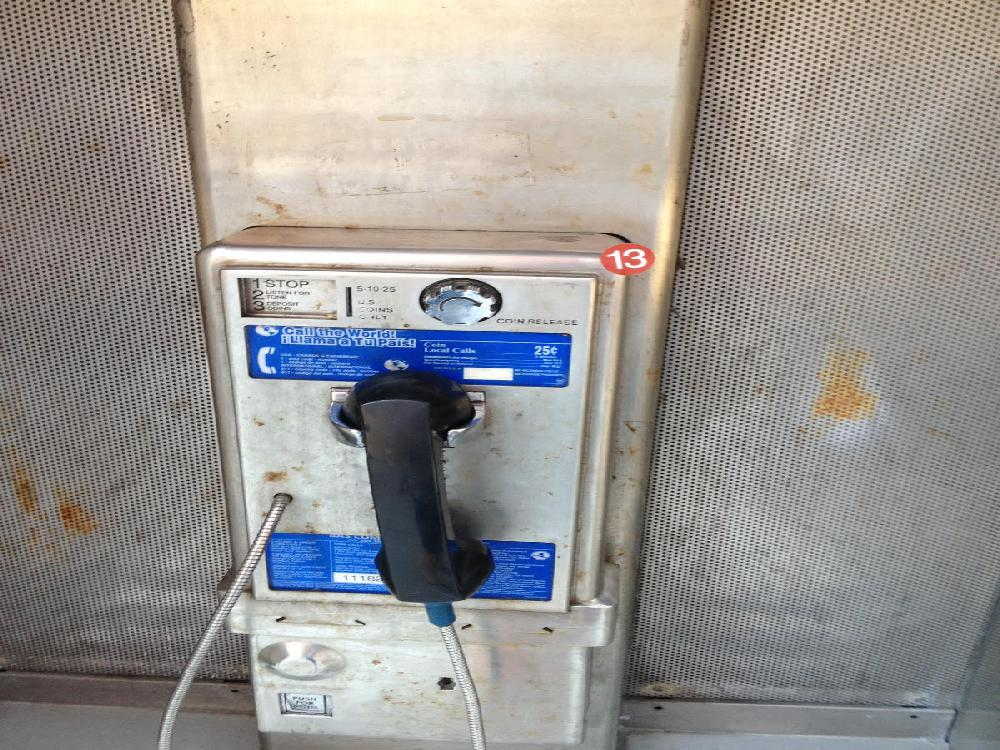
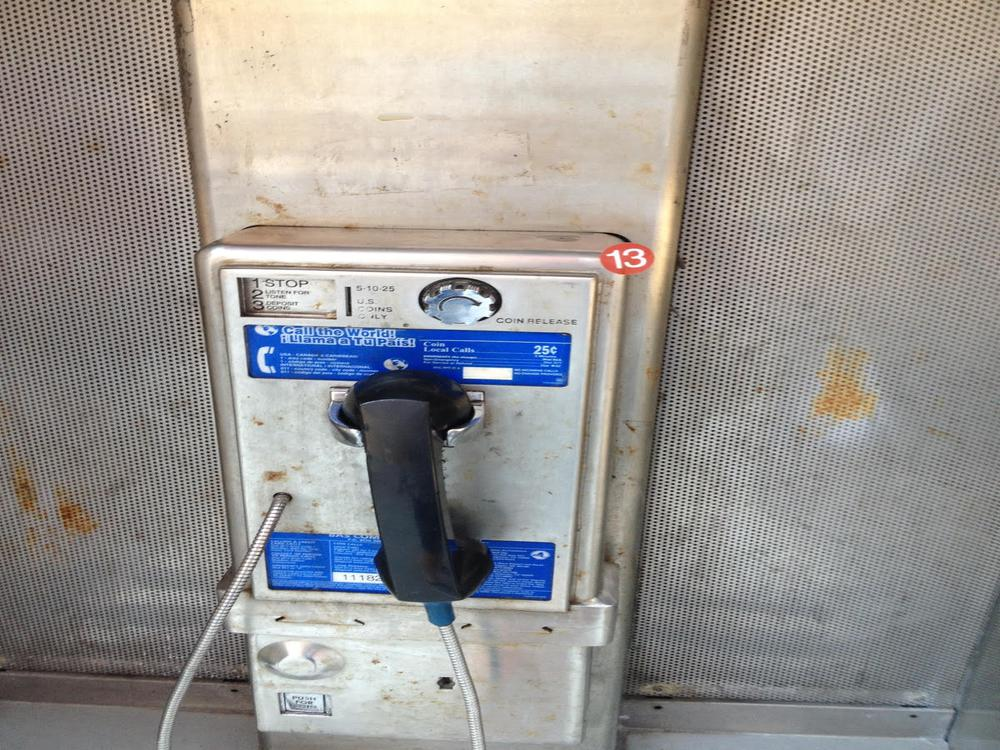
better image resizing

diff --git a/index.html b/index.html
@@ -179,6 +179,132 @@
         </div>
       </div>
       
+      <div class="project row">
+        <div class="gallery six columns" itemscope itemtype="http://schema.org/ImageGallery">
+          
+          <figure  itemprop="associatedMedia" itemscope itemtype="http://schema.org/ImageObject">
+            <a href="_gen_homepage_static/buy_1000_750.jpg" itemprop="contentUrl" data-size="1000x750">
+              
+              <img src="_gen_homepage_static/buy_465_349.jpg" itemprop="thumbnail" alt="Image description" />
+              
+            </a>
+            <!--
+            <figcaption itemprop="caption description"></figcaption>
+            -->
+          </figure>
+          
+          <figure class="hidden"  itemprop="associatedMedia" itemscope itemtype="http://schema.org/ImageObject">
+            <a href="_gen_homepage_static/events_1000_750.jpg" itemprop="contentUrl" data-size="1000x750">
+              
+              <img src="" />
+              
+            </a>
+            <!--
+            <figcaption itemprop="caption description"></figcaption>
+            -->
+          </figure>
+          
+          <figure class="hidden"  itemprop="associatedMedia" itemscope itemtype="http://schema.org/ImageObject">
+            <a href="_gen_homepage_static/frontpage_1000_750.jpg" itemprop="contentUrl" data-size="1000x750">
+              
+              <img src="" />
+              
+            </a>
+            <!--
+            <figcaption itemprop="caption description"></figcaption>
+            -->
+          </figure>
+          
+          <figure class="hidden"  itemprop="associatedMedia" itemscope itemtype="http://schema.org/ImageObject">
+            <a href="_gen_homepage_static/necklace_1000_750.jpg" itemprop="contentUrl" data-size="1000x750">
+              
+              <img src="" />
+              
+            </a>
+            <!--
+            <figcaption itemprop="caption description"></figcaption>
+            -->
+          </figure>
+          
+        </div>
+        <div class="six columns">
+          
+        </div>
+      </div>
+      
+      <div class="project row">
+        <div class="gallery six columns" itemscope itemtype="http://schema.org/ImageGallery">
+          
+        </div>
+        <div class="six columns">
+          
+        </div>
+      </div>
+      
+      <div class="project row">
+        <div class="gallery six columns" itemscope itemtype="http://schema.org/ImageGallery">
+          
+          <figure  itemprop="associatedMedia" itemscope itemtype="http://schema.org/ImageObject">
+            <a href="_gen_homepage_static/simple_cminimized_cross_self_1000_750.jpg" itemprop="contentUrl" data-size="1000x750">
+              
+              <img src="_gen_homepage_static/simple_cminimized_cross_self_465_349.jpg" itemprop="thumbnail" alt="Image description" />
+              
+            </a>
+            <!--
+            <figcaption itemprop="caption description"></figcaption>
+            -->
+          </figure>
+          
+          <figure class="hidden"  itemprop="associatedMedia" itemscope itemtype="http://schema.org/ImageObject">
+            <a href="_gen_homepage_static/simple_cminimized_cross_self_sinkcolored_rfscolored_1000_750.jpg" itemprop="contentUrl" data-size="1000x750">
+              
+              <img src="" />
+              
+            </a>
+            <!--
+            <figcaption itemprop="caption description"></figcaption>
+            -->
+          </figure>
+          
+          <figure class="hidden"  itemprop="associatedMedia" itemscope itemtype="http://schema.org/ImageObject">
+            <a href="_gen_homepage_static/three_bit_sum_1000_750.jpg" itemprop="contentUrl" data-size="1000x750">
+              
+              <img src="" />
+              
+            </a>
+            <!--
+            <figcaption itemprop="caption description"></figcaption>
+            -->
+          </figure>
+          
+          <figure class="hidden"  itemprop="associatedMedia" itemscope itemtype="http://schema.org/ImageObject">
+            <a href="_gen_homepage_static/three_bit_sum_MNEC_1000_750.jpg" itemprop="contentUrl" data-size="1000x750">
+              
+              <img src="" />
+              
+            </a>
+            <!--
+            <figcaption itemprop="caption description"></figcaption>
+            -->
+          </figure>
+          
+          <figure class="hidden"  itemprop="associatedMedia" itemscope itemtype="http://schema.org/ImageObject">
+            <a href="_gen_homepage_static/three_bit_sum_hyperminimized_1000_750.jpg" itemprop="contentUrl" data-size="1000x750">
+              
+              <img src="" />
+              
+            </a>
+            <!--
+            <figcaption itemprop="caption description"></figcaption>
+            -->
+          </figure>
+          
+        </div>
+        <div class="six columns">
+          
+        </div>
+      </div>
+      
     </section>
     <section class="newsletter">
       <h2>Andrew's Updates</h2>

diff --git a/templates/index.html b/templates/index.html
@@ -41,6 +41,7 @@
         <div class="gallery six columns" itemscope itemtype="http://schema.org/ImageGallery">
           {% for i in p.images %}
           <figure {% if not loop.first %}class="hidden" {% endif %} itemprop="associatedMedia" itemscope itemtype="http://schema.org/ImageObject">
+            <!-- pswp does need this data-size -->
             <a href="{{ i.size_1000_750.url }}" itemprop="contentUrl" data-size="1000x750">
               {% if loop.first %}
               <img src="{{ i.size_465_349.url }}" itemprop="thumbnail" alt="Image description" />

diff --git a/make.py b/make.py
@@ -66,7 +66,7 @@ def process_featured_image(image_path):
         else:
             print "Writing", new_filepath, "..."
             im = Image.open(image_path)
-            sized = im.resize((width, height)).convert('RGB') # ensure RGB for JPEG
+            sized = im.resize((width, height), Image.ANTIALIAS).convert('RGB') # ensure RGB for JPEG
             sized.save(new_filepath, "JPEG")
         result['size_%d_%d' % (width, height)] = {
             'url': '%s/%s' % (STATIC_OUTPUT_DIR, new_filename)
@@ -107,7 +107,7 @@ def load_small_project(project_name, project_data):
     else:
         print "Writing", new_filepath, "..."
         im = Image.open(image_path)
-        sized = im.resize((width, height)).convert('RGB') # ensure RGB for JPEG
+        sized = im.resize((width, height), Image.ANTIALIAS).convert('RGB') # ensure RGB for JPEG
         sized.save(new_filepath, "JPEG")
     return {
         'img_url': '%s/%s' % (STATIC_OUTPUT_DIR, new_filename),
